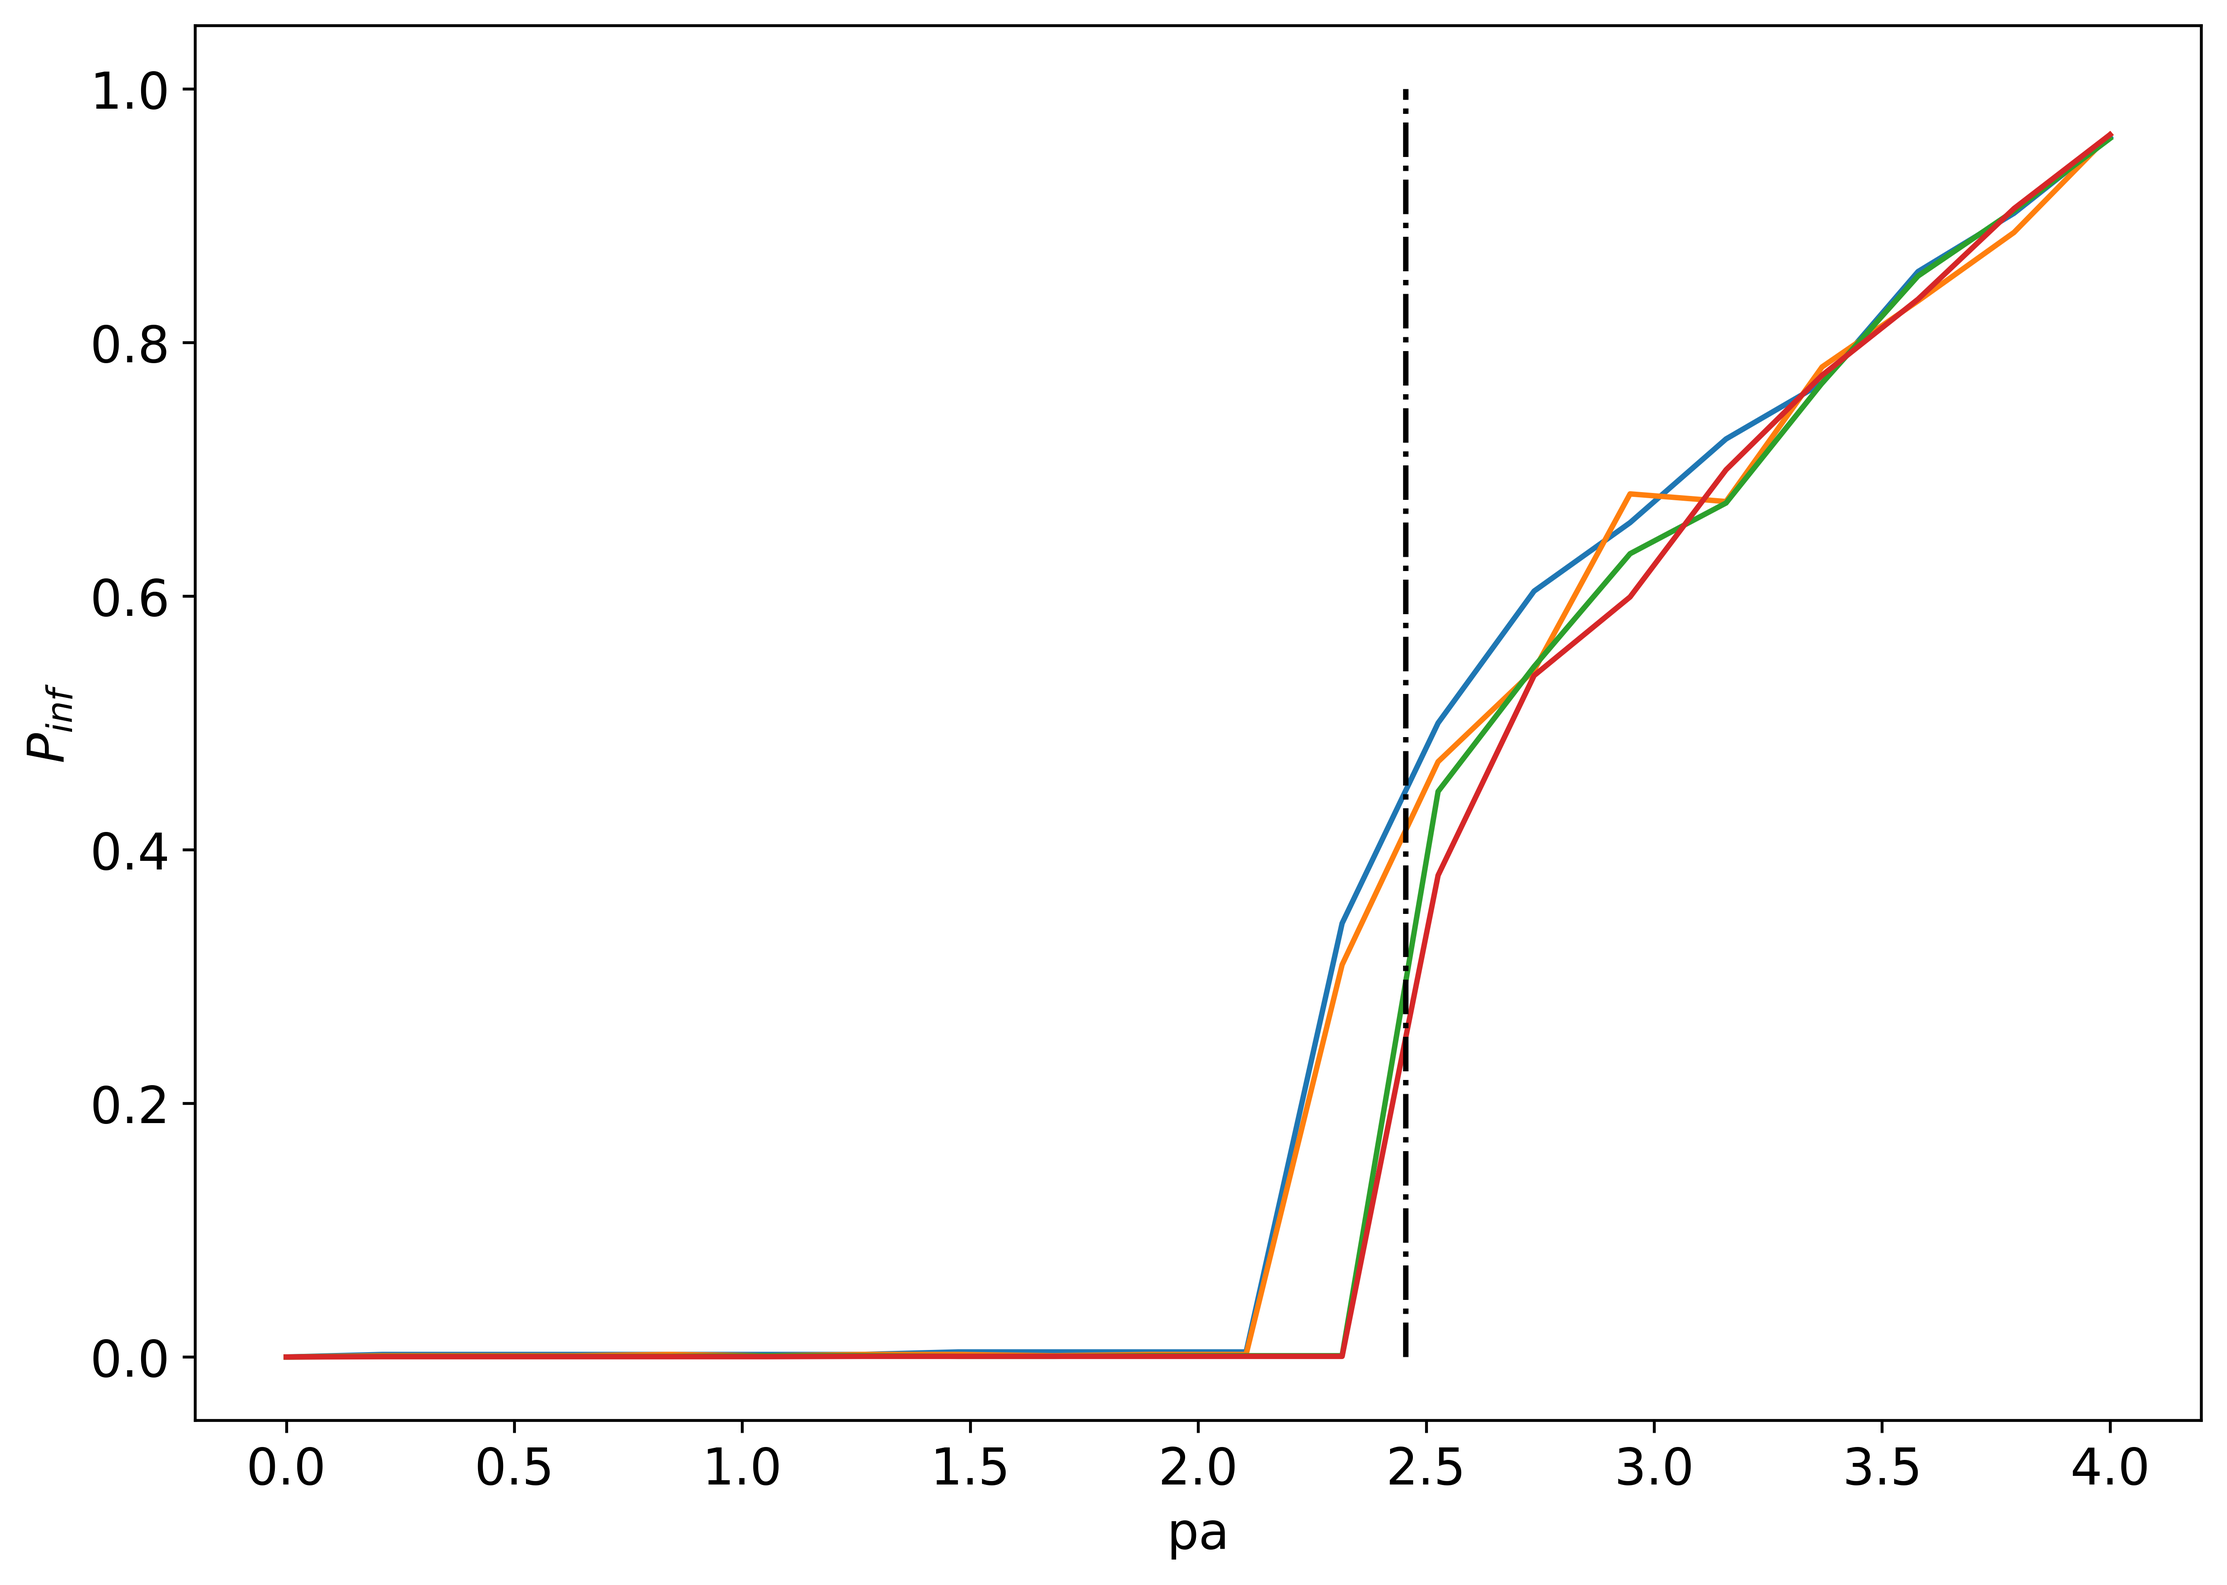
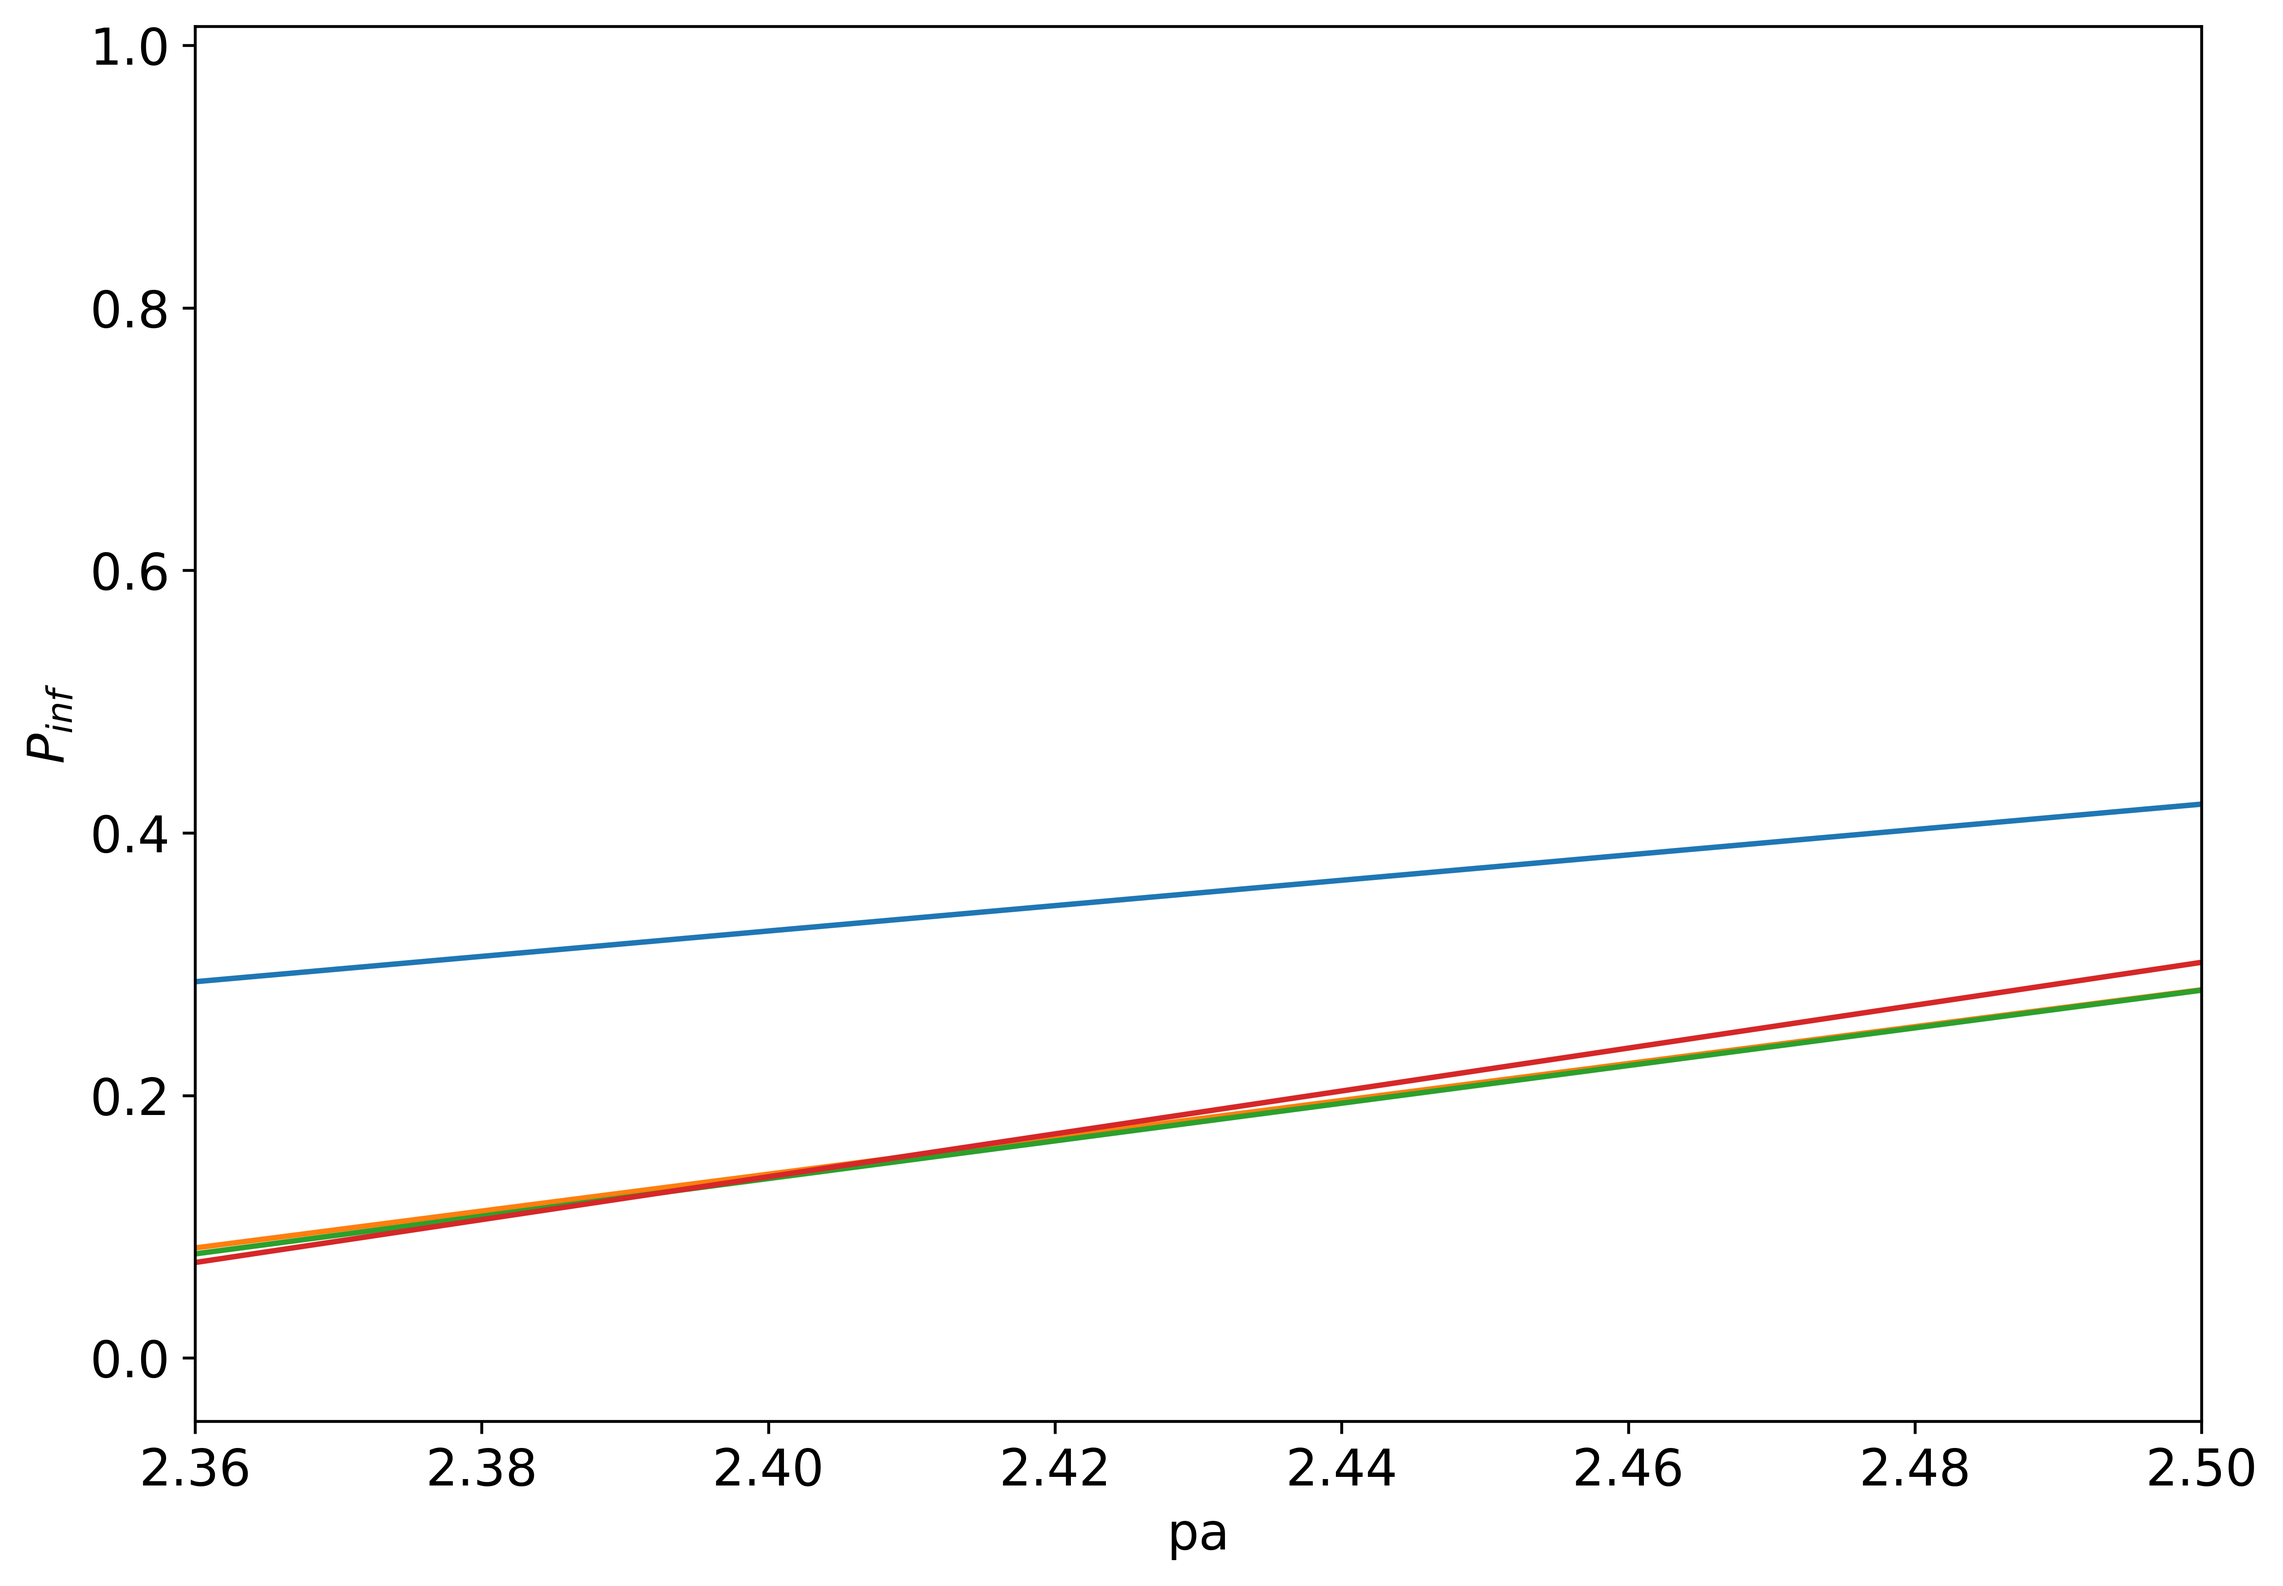
完成20次 的数据结果

diff --git a/scripts/plot2.py b/scripts/plot2.py
@@ -27,15 +27,16 @@ plt.figure(figsize=(10, 7))
 plt.rcParams.update({'font.size': 14})
 
 for i, res in enumerate(results):
-    pks = res[0] * k
+    pks = res[0] *k
     p_infs = res[1]
     plt.plot(pks, p_infs)
 
-plt.vlines(2.4554, ymin=0, ymax=1, colors='k', linestyles='dashdot', label='$p_{c}$=2.4554/<k>')
+# plt.vlines(2.4554, ymin=0, ymax=1, colors='k', linestyles='dashdot', label='$p_{c}$=2.4554/<k>')
 plt.xlabel('pa')
 plt.ylabel('$P_{inf}$')
+
 # plt.ylim(0, 1)
-# plt.xlim(2.5, 3)
+plt.xlim(2.36, 2.5)
 plt.savefig(path, dpi=600, bbox_inches='tight')
 # 生成网格线
 plt.grid()

diff --git a/scripts/ER_01_t20.py b/scripts/ER_01_t20.py
@@ -3,5 +3,5 @@ from src.measure import *
 print("\n++++++++++++++++++++++++++++++")
 print("ER N1000 Test Start...")
 print("++++++++++++++++++++++++++++++\n")
-ERn1000k4_20 = generate_pinf_ER(1000, 4, 20)
+ERn1000k4_20 = generate_pinf_ER(1000, 4, 1)
 np.savetxt('../notebooks/results/ER/t20/ERn1000k4_20.csv', ERn1000k4_20, delimiter=',')
